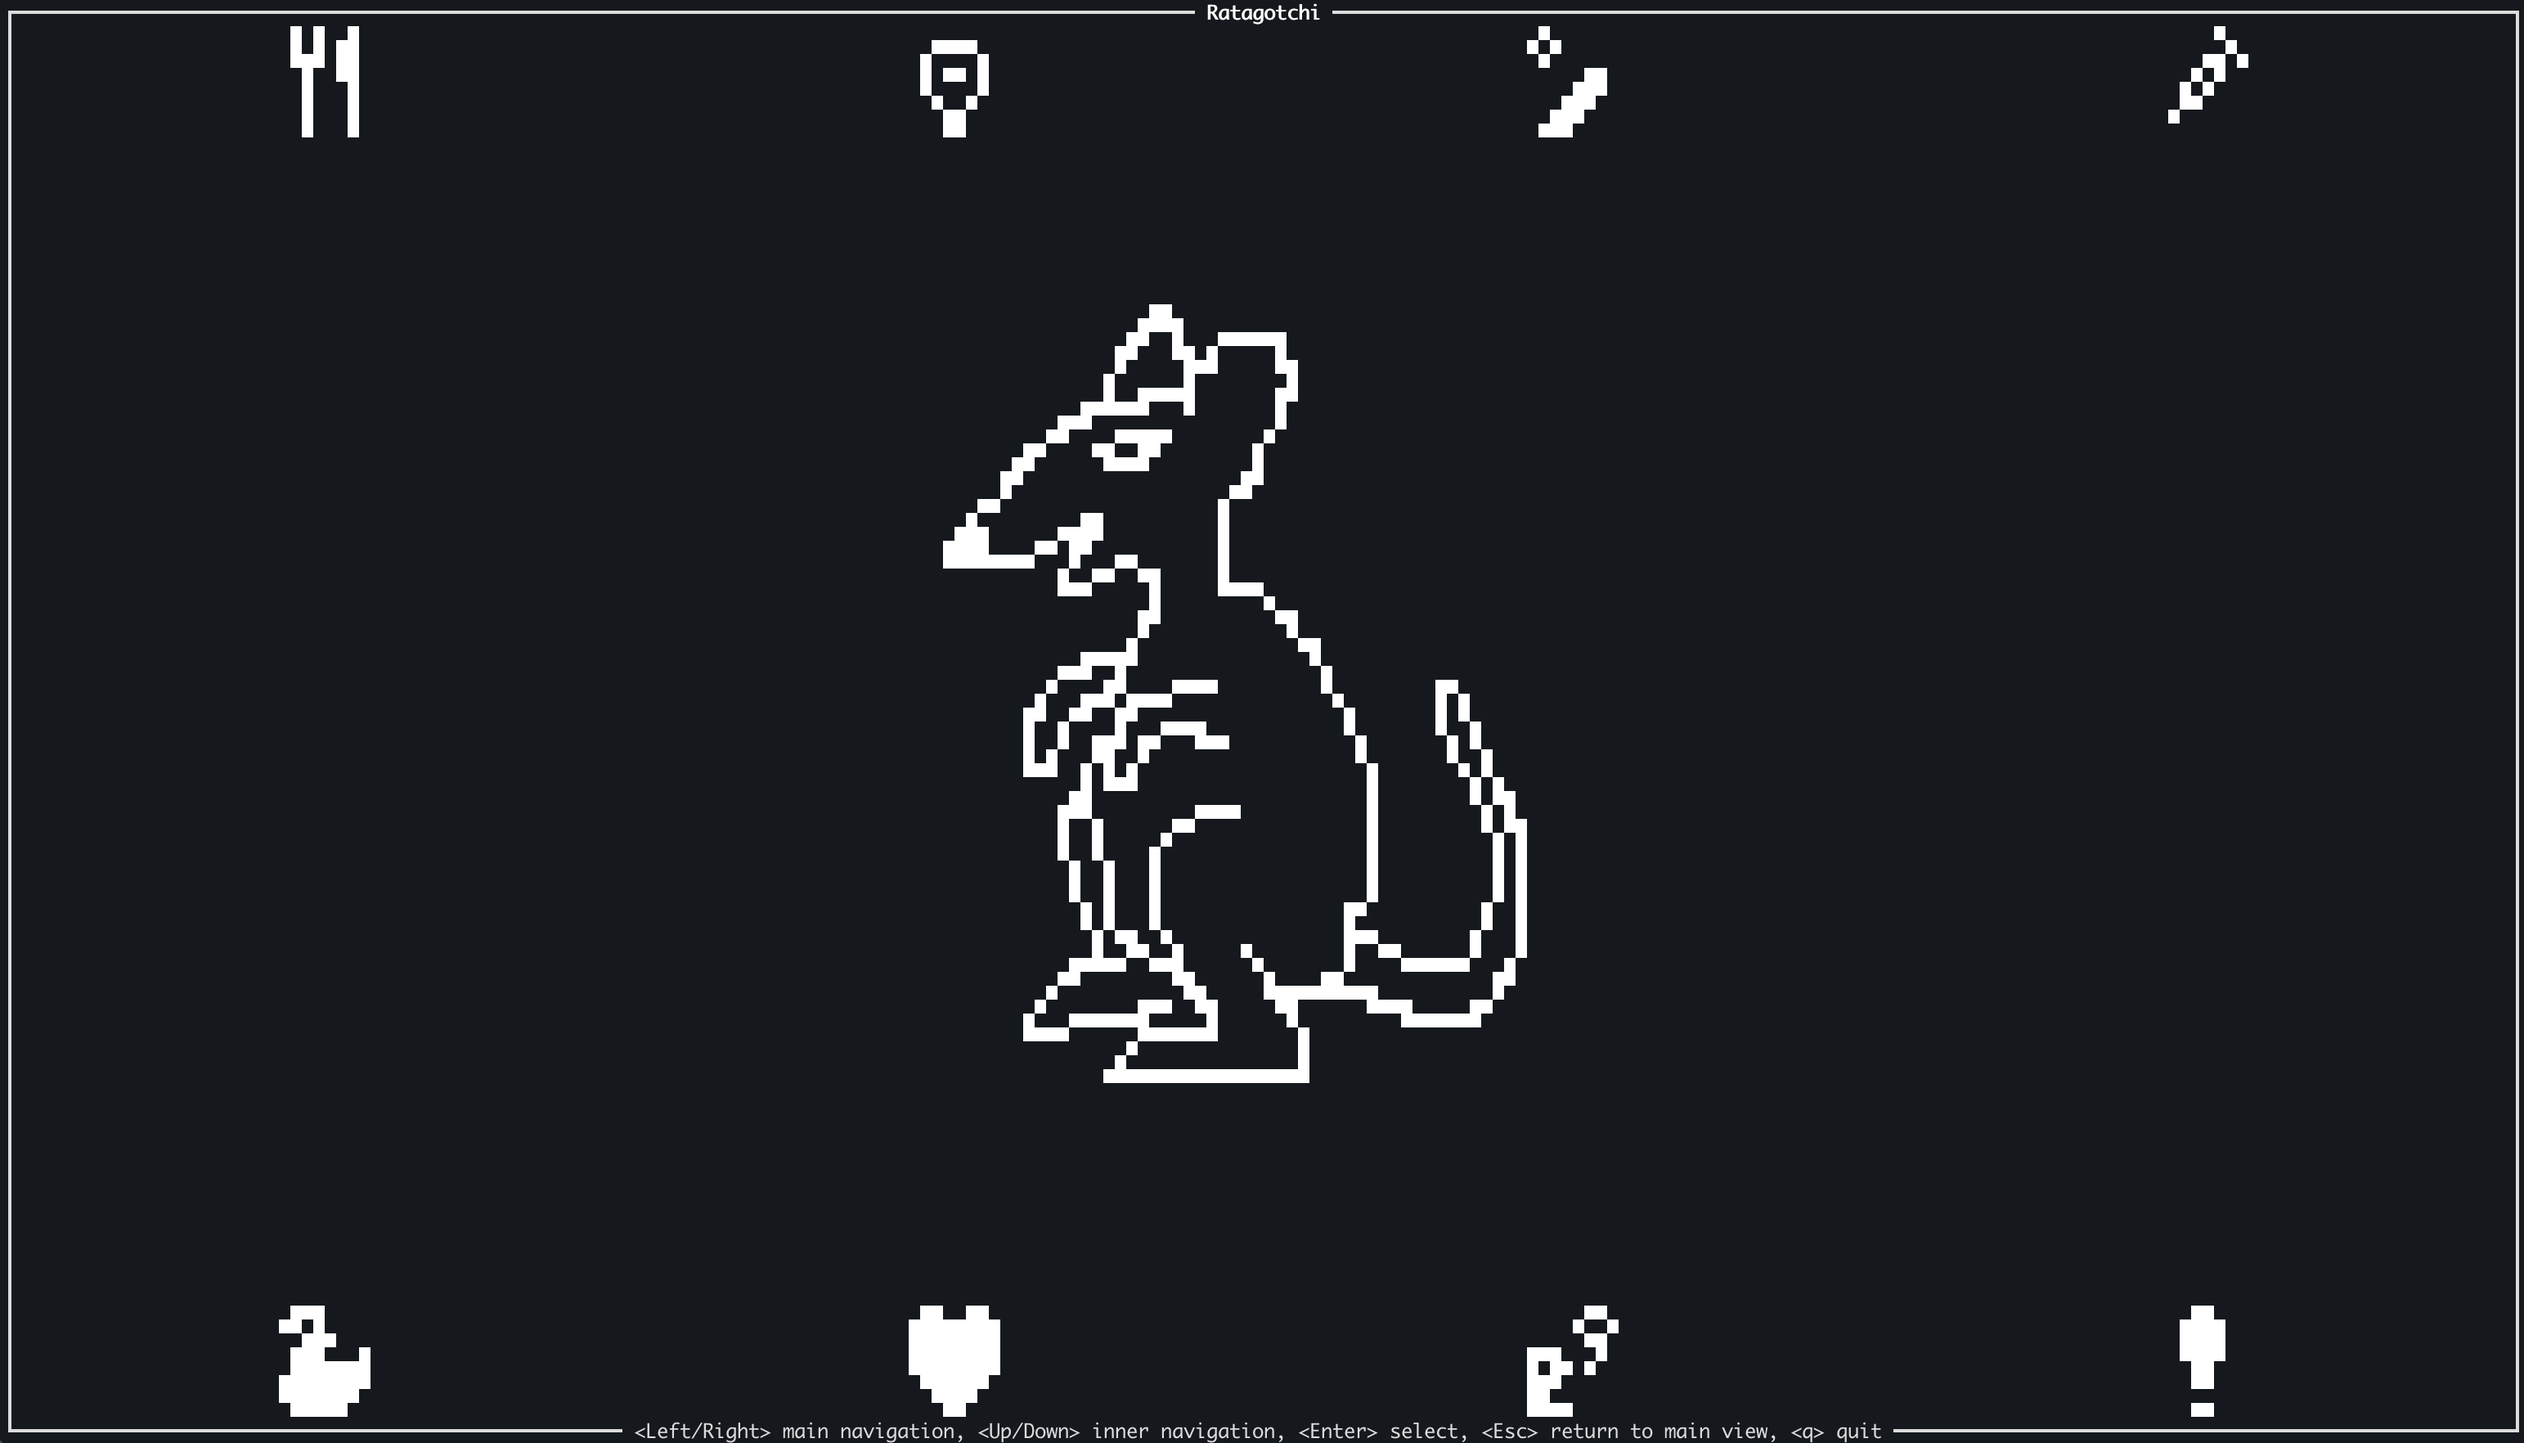
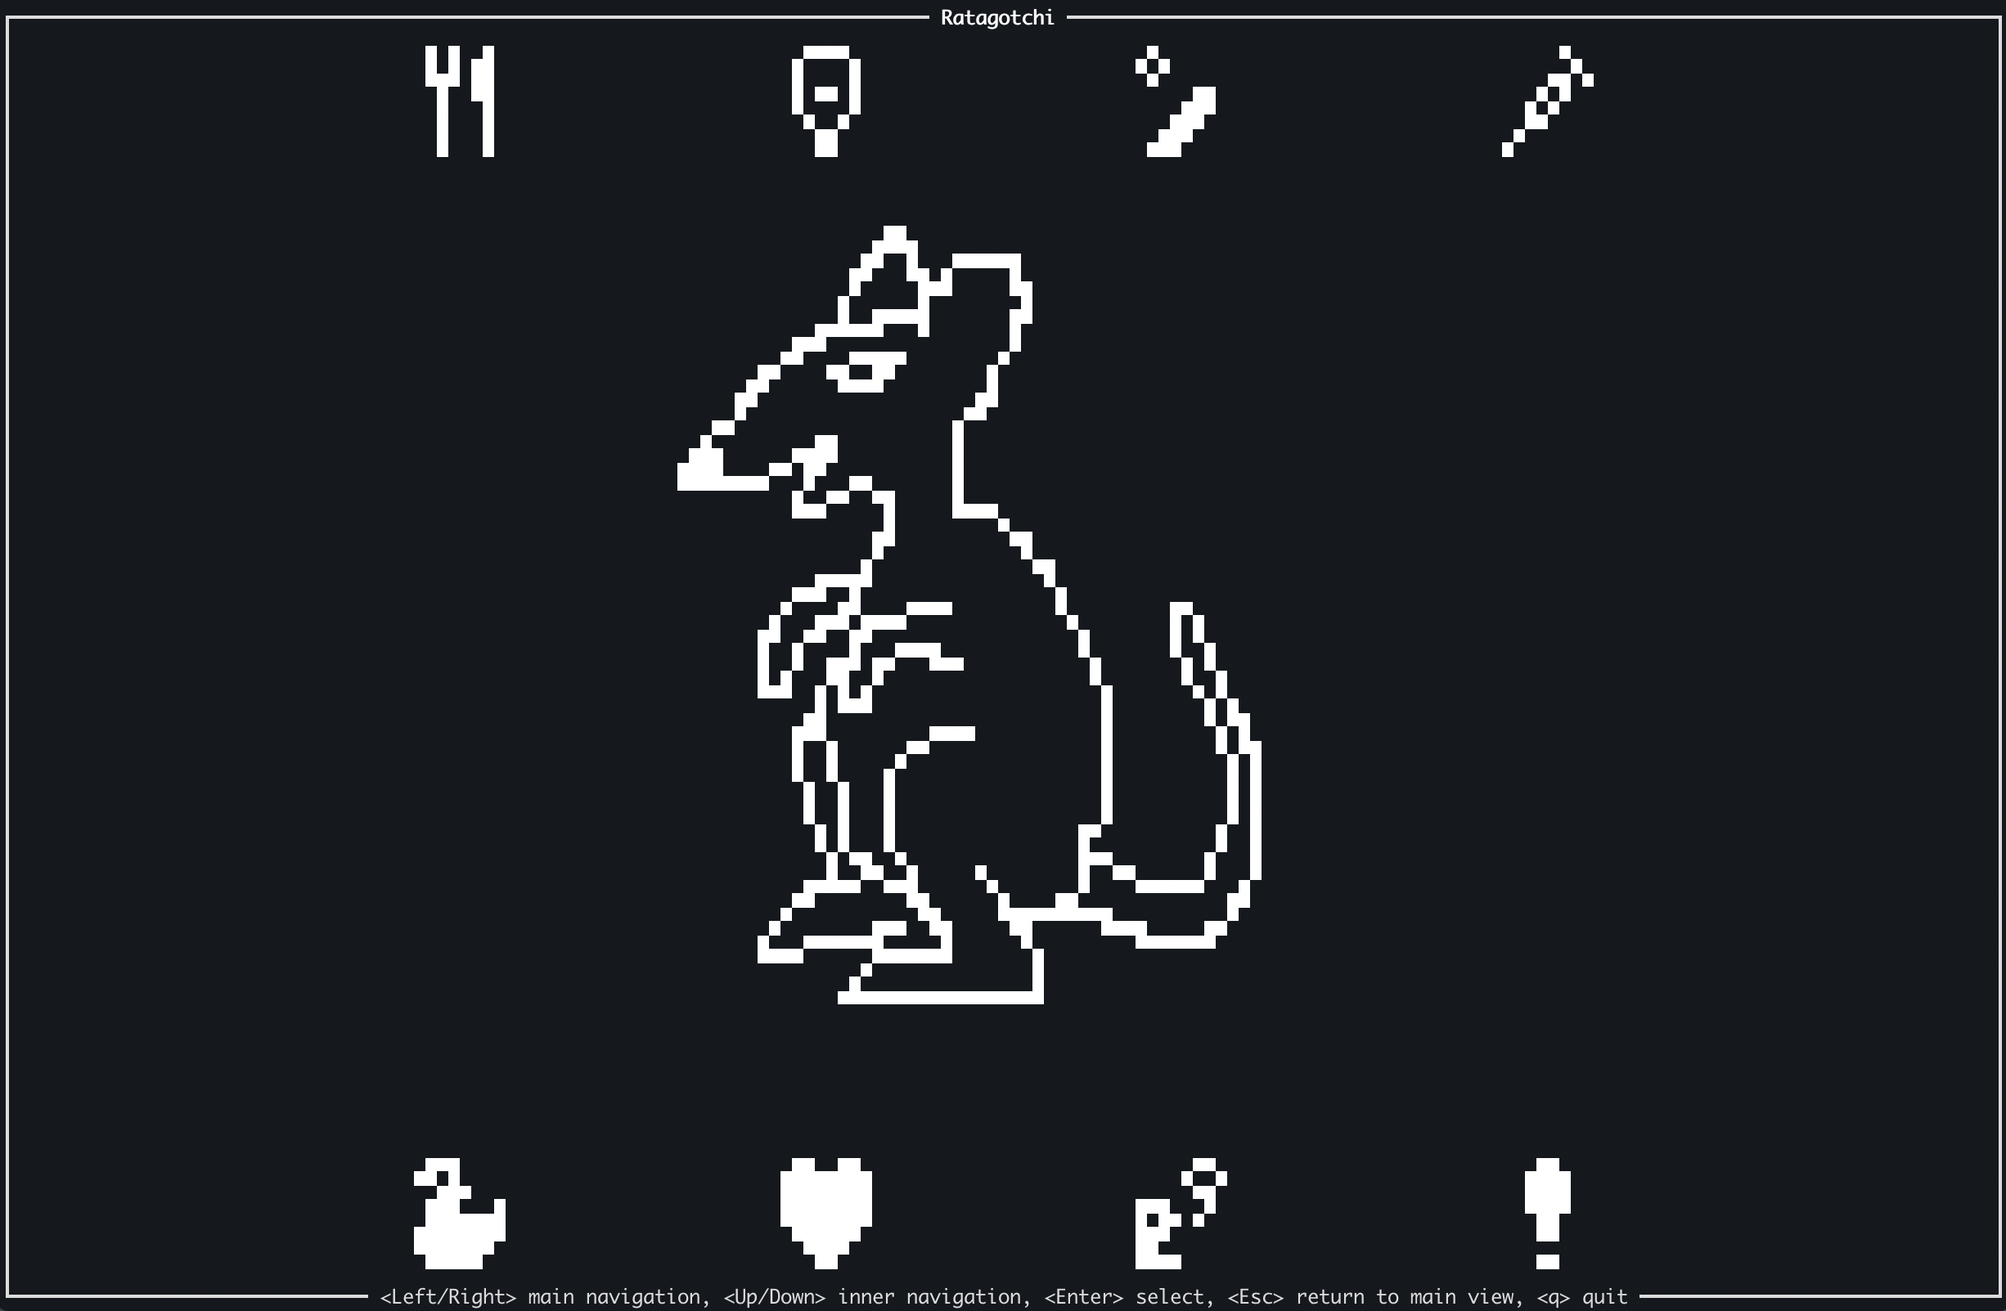
Fixed the Enter button hiding menus when no item is selected, updated screenshot.

diff --git a/src/game.rs b/src/game.rs
@@ -184,7 +184,7 @@ impl Game {
                         self.is_dark = !self.is_dark;
                     } else if self.active_view != self.highlighted_tab {
                         self.change_view();
-                    } else {
+                    } else if self.highlighted_tab != GameView::Main {
                         self.is_navigation_hidden = true;
                         self.do_action();
                     }
